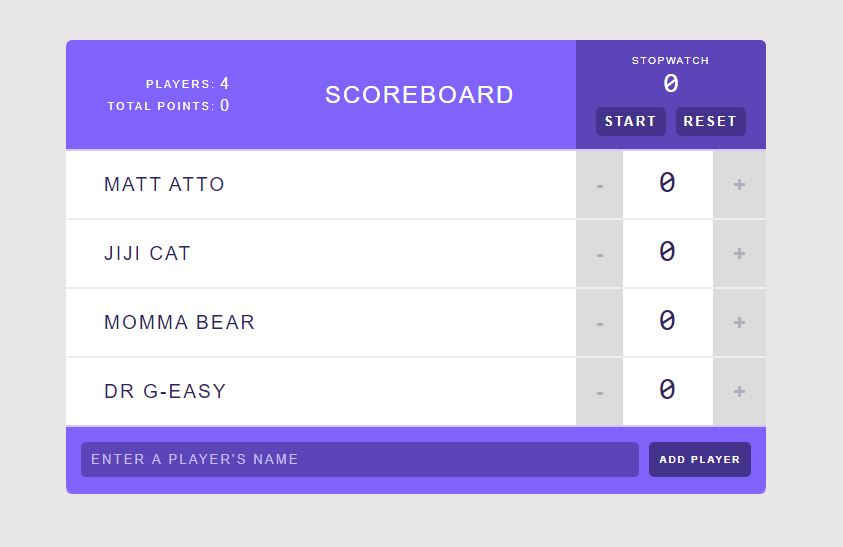
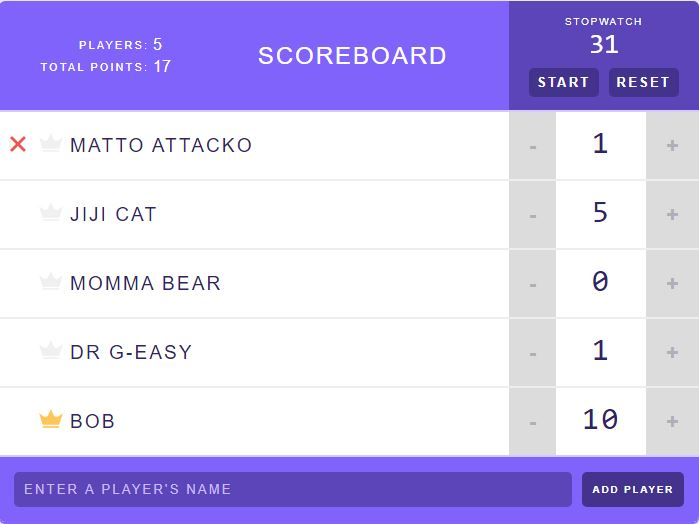
refinements to structure and optimization

diff --git a/src/components/App.js b/src/components/App.js
@@ -8,7 +8,7 @@ class App extends Component {
   state = {
     players: [
       {
-        name: "Matt Atto",
+        name: "Matto Attacko",
         score: 0,
         id: 1
       },
@@ -32,6 +32,15 @@ class App extends Component {
 
   // player id counter
   prePlayerId = 4;  
+
+  getHighScore = () => {
+    const scores = this.state.players.map( p => p.score );
+    const highScore = Math.max(...scores);
+    if (highScore) {
+      return highScore;
+    }
+    return null;
+  }
 
   handleScoreChange = (index, delta) => {
     this.setState( prevState => ({
@@ -63,6 +72,9 @@ class App extends Component {
   }
 
   render() {
+
+    const highScore = this.getHighScore();
+
     return (
       <div className="scoreboard">
         <Header players={this.state.players}/>
@@ -76,7 +88,8 @@ class App extends Component {
             key={player.id.toString()}
             index={index} 
             changeScore={this.handleScoreChange}
-            removePlayer={this.handleRemovePlayer}           
+            removePlayer={this.handleRemovePlayer}  
+            isHighScore={highScore === player.score}         
           />
         )}
 

diff --git a/src/components/Player.js b/src/components/Player.js
@@ -2,6 +2,7 @@ import React, { PureComponent } from 'react';
 import PropTypes from 'prop-types';
 
 import Counter from './Counter';
+import Icon from './Icon';
 
 class Player extends PureComponent {
 
@@ -11,7 +12,8 @@ class Player extends PureComponent {
     name: PropTypes.string.isRequired,
     score: PropTypes.number.isRequired,
     id: PropTypes.number,
-    index: PropTypes.number
+    index: PropTypes.number,
+    isHighScore: PropTypes.bool
   };
 
   render() {
@@ -29,6 +31,8 @@ class Player extends PureComponent {
       <div className="player">
         <span className="player-name">
           <button className="remove-player" onClick={() => removePlayer(id)}>✖</button>
+
+          <Icon isHighScore={this.props.isHighScore} /> 
           { name }
         </span>
   

diff --git a/src/components/Counter.js b/src/components/Counter.js
@@ -3,12 +3,11 @@ import PropTypes from 'prop-types';
 
 const Counter = ({ index, score, changeScore }) => {
 
-
   return (
     <div className="counter">
-      <button className="counter-action decrement" onClick={() => changeScore(index,-1)}> - </button> 
+      <button className="counter-action decrement" onClick={() => changeScore(index, -1)}> - </button> 
       <span className="counter-score">{ score }</span>
-      <button className="counter-action increment" onClick={() => changeScore(index,1)}> + </button>
+      <button className="counter-action increment" onClick={() => changeScore(index, 1)}> + </button>
     </div>
   );
 }

diff --git a/src/components/Icon.js b/src/components/Icon.js
@@ -1,0 +1,14 @@
+import React from 'react';
+import PropTypes from 'prop-types';
+
+const Icon = (props) =>
+  <svg viewBox="0 0 44 35" className={ props.isHighScore ? 'is-high-score' : null }>
+    <path d="M26.7616 10.6207L21.8192 0L16.9973 10.5603C15.3699 14.1207 10.9096 15.2672 7.77534 12.9741L0 7.24138L6.56986 28.8448H37.0685L43.5781 7.72414L35.7425 13.0948C32.6685 15.2672 28.3288 14.0603 26.7616 10.6207Z" transform="translate(0 0.301727)"/>
+    <rect width="30.4986" height="3.07759" transform="translate(6.56987 31.5603)"/>
+  </svg>;
+
+Icon.propTypes = {
+  isHighScore: PropTypes.bool
+};
+
+export default Icon;

diff --git a/src/components/Stopwatch.js b/src/components/Stopwatch.js
@@ -51,7 +51,7 @@ class Stopwatch extends Component {
         <button onClick={this.handleStopwatch}>
           { this.state.isRunning ? 'Stop' : 'Start' }
         </button>
-        <button onclick={this.handleReset}>Reset</button>
+        <button onClick={this.handleReset}>Reset</button>
       </div>
     );
   }

diff --git a/src/components/AddPlayerForm.js b/src/components/AddPlayerForm.js
@@ -1,6 +1,11 @@
 import React, { Component } from 'react';
+import PropTypes from 'prop-types';
 
 class AddPlayerForm extends Component {
+
+  static propTypes = {
+    addPlayer: PropTypes.func
+  };
 
   playerInput = React.createRef();
 

diff --git a/src/components/Header.js b/src/components/Header.js
@@ -14,7 +14,7 @@ const Header = ({ players, title }) => {
 }
 
 Header.propTypes = {
-  players: PropTypes.arrayOf(PropTypes.object),
+  players: PropTypes.arrayOf(PropTypes.object).isRequired,
   title: PropTypes.string
 };
 

diff --git a/src/components/Stats.js b/src/components/Stats.js
@@ -27,7 +27,7 @@ const Stats = (props) => {
 Stats.propTypes = {
   players: PropTypes.arrayOf(PropTypes.shape({
     score: PropTypes.number
-  }))
+  })).isRequired
 };
 
 export default Stats;
